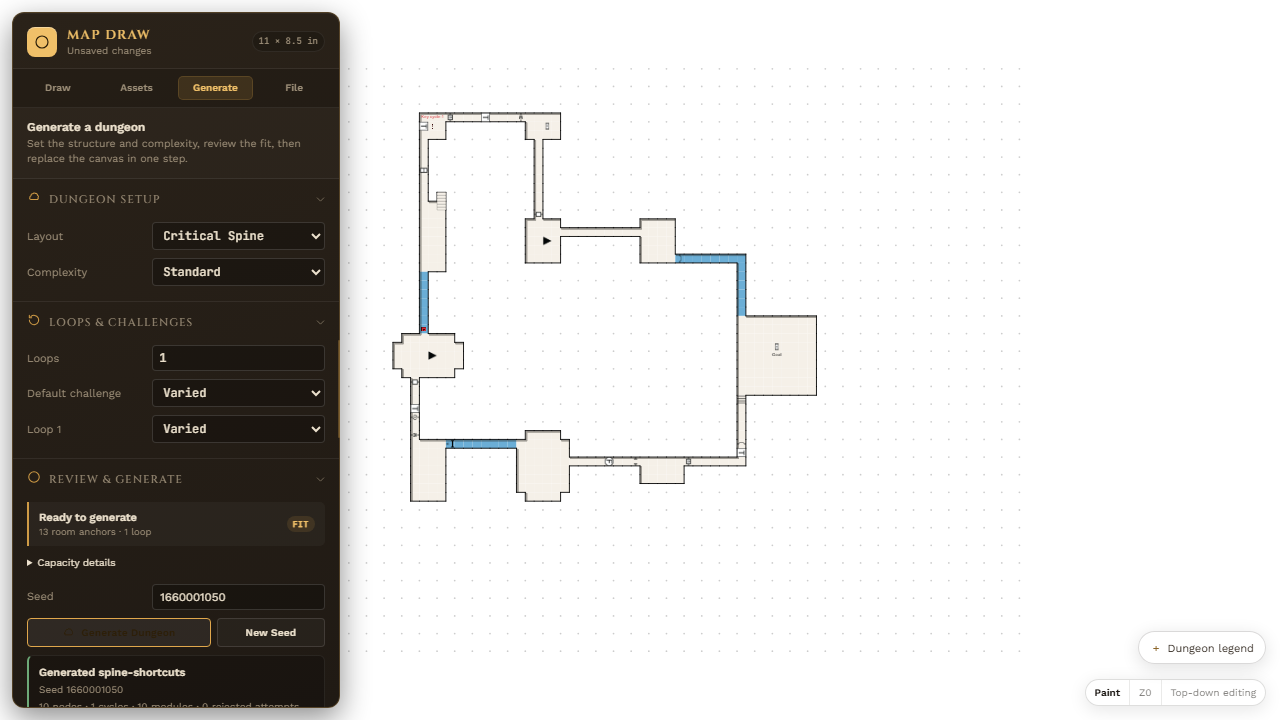
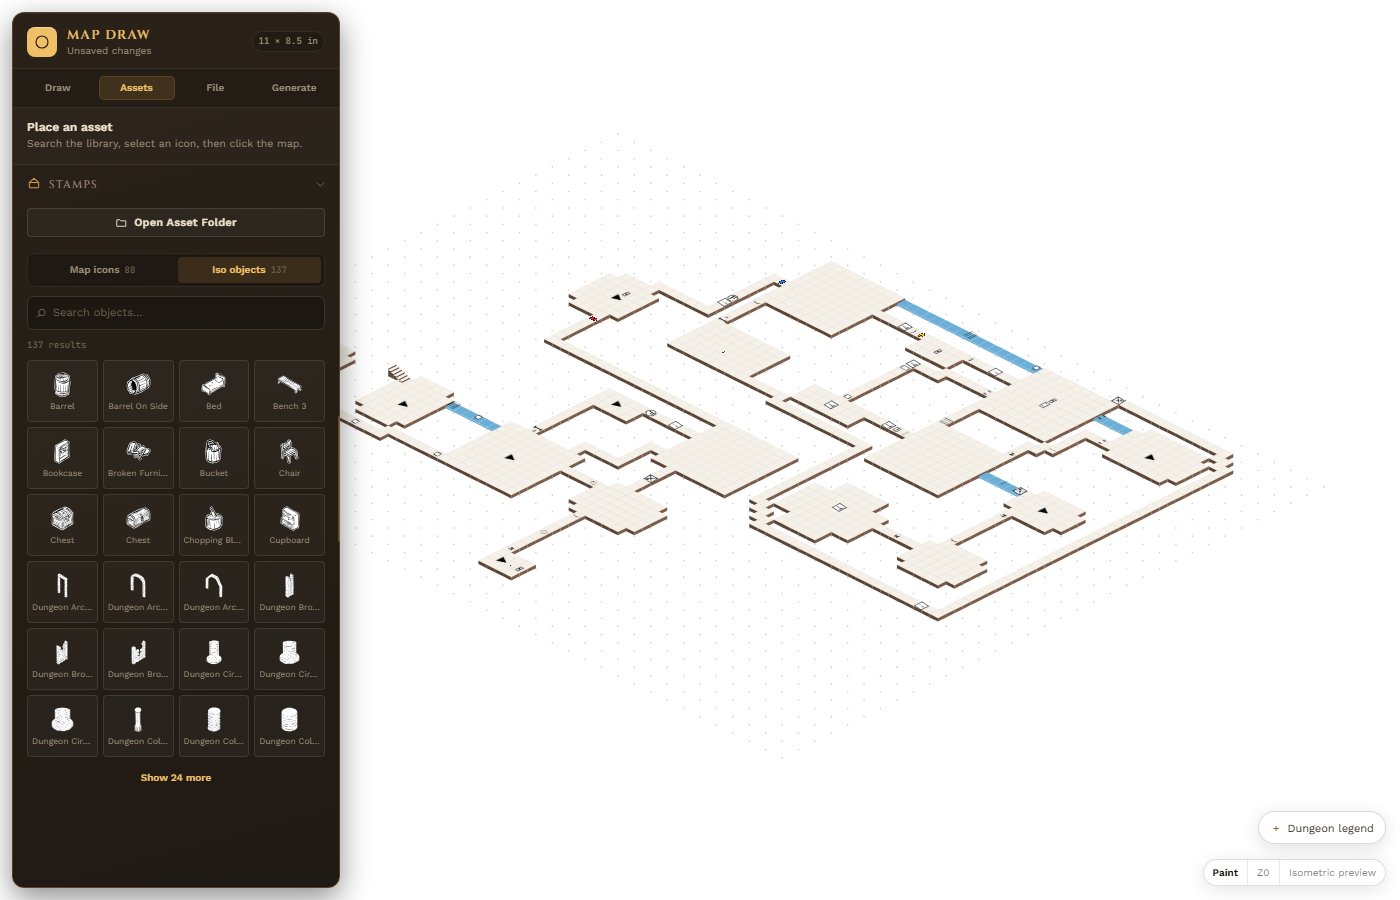
Refresh README screenshot and feature overview

diff --git a/README.md b/README.md
@@ -15,8 +15,7 @@ Map Draw 3 is a browser and desktop dungeon-map editor for tabletop RPG battle m
 
 ## Features
 
-- **Mission-first dungeon generation**: Choose Critical Spine, Central Hub, or Branch-and-merge layouts; tune complexity; set a seed; and add loops with challenges such as alternate paths, hidden shortcuts, locks and keys, and dangerous routes.
-- **Generation review**: Preflight checks show capacity, room anchors, branches, challenge density, derived keys and locks, and rejected attempts before a generated dungeon replaces the canvas.
+- **Dungeon generation**: Choose Spine, Hub, or Branches; tune complexity, seed, loops, and challenges; then review capacity before replacing the canvas.
 - **Draw & paint**: Use square or circle brushes for floors, water, lava, darkness, and erasing. Environment painting includes grass, road, sand, mud, stone, mossy stone, and rubble with custom colors.
 - **Caves and structures**: Create rough caves with a three-click workflow, work across Z-levels, and place ascending or descending stairs and ramps.
 - **Assets and annotations**: Search 88 map icons and 137 object assets, then place, move, rotate, mirror, recolor, and scale them. Add numbered or named labels to the map.
